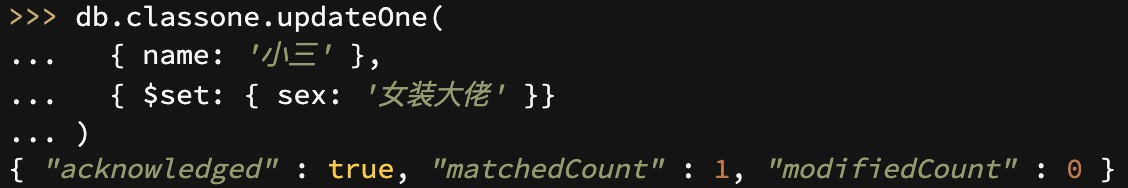
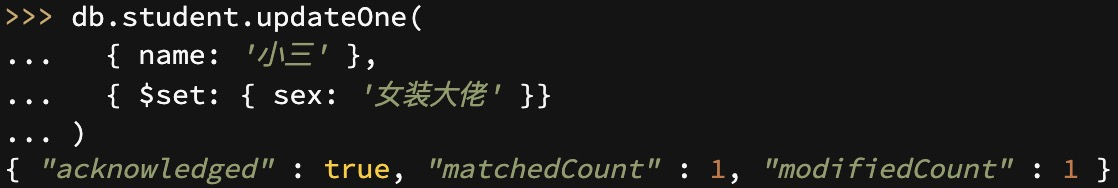
mongo done

diff --git a/mongo/README.md b/mongo/README.md
@@ -1,4 +1,4 @@
-# 前端mongo入学
+# mongo聚合笔记
 > `MongoDB` 是一个基于分布式文件存储的数据库。由 `C++` 语言编写。旨在为 `WEB` 应用提供可扩展的高性能数据存储解决方案。
 
 ## 1.前言
@@ -6,7 +6,7 @@
 
 我认为是非常有必要的，假如就笼统以浏览器和服务器区分前后端，如何解释浏览器的 `indexedDB` 的存在。存在就是合理的，了解越多可以走得越远。
 
-公司最近有 `mongo` 聚合的需求，没数据库方面实战的我瞬间有了极大的兴趣，这篇文章是 `mongo` 的笔记，但用层层递进的故事来写这篇文章，即使是前端小白也能理解和入门。
+公司最近有 `mongo` 聚合的需求，我瞬间有了极大的兴趣，这篇文章是 `mongo` 的学习和解决问题笔记。
 
 ## 2.环境
 环境安装与本篇文章的关系不大，但提供几个渠道：
@@ -14,7 +14,6 @@
 2. `mongo` 客户端，[Robo 3T](https://robomongo.org/)很好用哦；
 3. `mongo` 官方的[命令行小窗口](https://docs.mongodb.com/manual/tutorial/insert-documents/)（***免安装直接使用，学习推荐！！！***）。
 
-下面故事开始。
 ## 3.介绍
 在城市中有几所学校（`db`），我们来查看下城市中的学校都有哪些
 ![3-1](./3-1.jpg)
@@ -22,59 +21,231 @@
 然后需要指定学校，作用是可以操作该学校（`mongo`默认指向`test`）
 ![3-2](./3-2.jpg)
 
-## 4.添加
-学校（默认`test`）新开班级（`classone`），班级有三个学生（`student`）。他们的信息（姓名、性别、笔）如下：
-| 姓名 | 性别 | 铅笔数量 |
-|:---:|:---:|:---:|
-| 小一 | 男生 | 3 |
-| 小二 | 女生 | 4 |
-| 小三 | 男生 | 5 |
+## 4.插入
+学校（`test`）到了期末考试，成绩如下：
 
-老师要把他们的信息录入教务系统：
+| 姓名 | 性别 | 语文 | 数学 | 英语 |
+|:---:|:---:|:---:|:---:|:---:|
+| 小一 | 男生 | 90 | 90 | 90 |
+| 小二 | 女生 | 80 | 80 | 80 |
+| 小三 | 男生 | 70 | 70 | 70 |
+
+成绩出来后老师把分数录入成绩系统。
 ```javascript
-db.classone.insertOne({ name: "小一", sex: '男生', pencil: 3 })
+// 插入的方法：insertOne插入一条数据
+db.student.insertOne({ name: "小一", sex: '男生', chinese: '90', math: '90', english: '90', createdAt: new Date('2019-06-10')})
 ```
 ![4-1](./4-1.jpg)
 
 老师觉得一个个添加太烦了，所以一次性添加：
 ```javascript
-db.classone.insertMany([
-  { name: "小二", sex: '女生', pencil: 4 },
-  { name: "小三", sex: '女生', pencil: 5 },
+// // 插入的方法：insertMany 插入一条数据
+db.student.insertMany([
+  { name: "小三", sex: '女生', chinese: '80', math: '80', english: '80', createdAt: new Date('2019-06-10')},
+  { name: "小三", sex: '女生', chinese: '70', math: '70', english: '70', createdAt: new Date('2019-06-10')}
 ])
 ```
 ![4-2](./4-2.jpg)
 
 ## 5.修改
-老师把小三的性别记错了，他其实是女装大佬，老师被骗恼羞成怒，于是修正其性别
+老师突然发现，小三其实是女装大佬，老师被骗恼羞成怒，于是修改其性别。
 ```javascript
-db.classone.updateOne(
+// 更新方法：updateOne
+
+db.student.updateOne(
   { name: '小三' },
   { $set: { sex: '女装大佬' }}
 )
 ```
 ![5-1](./5-1.jpg)
 
-## 查找
-三个学生都努力学习，经过期末考试完后，小一自信可以拿第一，于是小一去查自己的成绩
+> 其中 `$set` 是更新操作符，告诉 `mongo` 需要对符合的数据进行什么操作。用法差不多，列举部分如下（更多[更新操作符](https://docs.mongodb.com/manual/reference/operator/update/)）：
+> 1. [$currentDate](https://docs.mongodb.com/manual/reference/operator/update/currentDate/#up._S_currentDate)：设置时间；
+> 2. [$inc](https://docs.mongodb.com/manual/reference/operator/update/inc/#up._S_inc)：按指定的数量增加字段的值；
+> 3. [$min](https://docs.mongodb.com/manual/reference/operator/update/currentDate/#up._S_currentDate)：仅当指定的值小于现有字段值时才更新字段；
+> 4. [$max](https://docs.mongodb.com/manual/reference/operator/update/currentDate/#up._S_currentDate)：仅当指定的值大于现有字段值时才更新字段；
+> 5. [$mul](https://docs.mongodb.com/manual/reference/operator/update/currentDate/#up._S_currentDate)：将字段的值乘以指定的量；
+> 6. [$rename](https://docs.mongodb.com/manual/reference/operator/update/currentDate/#up._S_currentDate)：重命名字段；
+> 7. [$set](https://docs.mongodb.com/manual/reference/operator/update/currentDate/#up._S_currentDate)：设置文档中字段的值；
+> 8. [$setOnInsert](https://docs.mongodb.com/manual/reference/operator/update/currentDate/#up._S_currentDate)：如果更新导致文档插入，则设置字段的值。对修改现有文档的更新操作没有影响；
+> 9. [$unset](https://docs.mongodb.com/manual/reference/operator/update/currentDate/#up._S_currentDate)：从文档中删除指定的字段。
+
+## 6.查找
+三个学生都努力学习，经过期末考试完后，小一自信可以拿第一，于是小一去查自己的成绩。
 ```javascript
-db.classone.find({name: '小一'})
+// 查询方法：find
+// pretty方法可以让数据更好看
+db.student.find({name: '小一'})
+```
+![6-1](./6-1.jpg)
+
+然后再查小二和小三的成绩。
+```javascript
+// 查询方法：find
+db.student.find({$or: [{name: '小二'}, {name: '小三'}]})
+```
+![6-2](./6-2.jpg)
+
+他突然发现小三是女装大佬的事实，震惊！
+
+> 其中 `$or` 是查询操作符，告诉 `mongo` 需要对符合的数据进行什么操作。用法差不多，列举部分如下（更多[查询操作符](https://docs.mongodb.com/manual/reference/operator/query/)）：
+> 1. [$eq](https://docs.mongodb.com/manual/reference/operator/query/eq/#op._S_eq)：匹配等于指定值的值。
+> 2. [$gt](https://docs.mongodb.com/manual/reference/operator/query/gt/#op._S_gt)：匹配大于指定值的值。
+> 3. [$lt](https://docs.mongodb.com/manual/reference/operator/query/lt/#op._S_lt)：匹配小于指定值的值。
+> 4. [$and](https://docs.mongodb.com/manual/reference/operator/query/lt/#op._S_lt)：列举条件都匹配。
+> 5. [$not](https://docs.mongodb.com/manual/reference/operator/query/lt/#op._S_lt)：列举条件都不匹配。
+> 6. [$or](https://docs.mongodb.com/manual/reference/operator/query/lt/#op._S_lt)：列举条件匹配其中一个。
+
+## 7.删除
+小一内心纠结，最后把这事告诉小三。小三觉得无颜面对同学和老师，决定退学。老师把小三的信息从教务系统删除。
+
+```javascript
+// 删除方法：deleteOne
+db.student.deleteOne({name: '小三'})
+```
+![7-1](./7-1.jpg)
+
+## 8.循环
+期末老师做工作总结，发现成绩录入成字符串，应该是数字类型才对，所以操作循环更改。
+
+```javascript
+// 遍历方法：forEach
+db.student.find().forEach(function(doc) {
+  doc.chinese = String(doc.chinese);
+  doc.math = String(doc.math);
+  doc.english = String(doc.english);
+  db.student.save(doc);
+});
 ```
 
-然后再查小二和小三的成绩
+![8-1](./8-1.jpg)
+
+> 数字类型：`NumberInt`强制转化为数字类型。
+
+## 9.聚合
+期末老师需要把班级的语文、数学、英语的平均分计算出来。
+
+### 9.1 aggregate
 ```javascript
-db.classone.find({$or: [{name: '小二'}, {name: '小三'}]})
+// 聚合方法：aggregate
+// 而$chinese、$math和$english只是代表文档字段。
+db.student.aggregate([
+  {
+    $group: {
+      _id: null,
+      sumChinese: { $sum: '$chinese' },
+      avgChinese: { $avg: '$chinese' },
+      sumMath: { $sum: '$math' },
+      avgMath: { $avg: '$math' },
+      sumEnglish: { $sum: '$english' },
+      avgEnglish: { $avg: '$english' },
+    }
+  }
+])
 ```
 
-他突然发现小三是女装大佬的事实
+![9-1](./9-1.jpg)
 
-## 删除
-小一内心纠结，最后把这事告诉小三。小三觉得无颜面对同学和老师，决定退学。老师把小三的信息从教务系统删除
+> `$group`是分组操作符，根据`_id`来进行分组，如果传`null`就是不分组，选择所有的数据。
+> 其中 `$sum` 和 `$avg` 是聚合操作符，告诉 `mongo` 需要对符合的数据进行什么操作。用法差不多，列举部分如下（更多[聚合操作符](https://docs.mongodb.com/manual/reference/operator/aggregation/)）：
+> 1. [$sum](https://docs.mongodb.com/v2.6/reference/operator/aggregation/sum/#grp._S_sum)：返回每个组的总和（忽略非数字值）；
+> 2. [$avg](https://docs.mongodb.com/v2.6/reference/operator/aggregation/avg/#grp._S_avg)：返回每个组的平均值（忽略非数字值）；
+> 3. [$max](https://docs.mongodb.com/v2.6/reference/operator/aggregation/max/#grp._S_max)：返回每个组的最高表达式值；
+> 4. [$min](https://docs.mongodb.com/v2.6/reference/operator/aggregation/min/#grp._S_min)：返回每个组的最低表达式值；
+> 5. [$gte](https://docs.mongodb.com/v2.6/reference/operator/aggregation/gte/#exp._S_gte)：如果给定的值大于等于，返回true，否则返回false；
+> 6. [$lte](https://docs.mongodb.com/v2.6/reference/operator/aggregation/lte/#exp._S_lte)：如果给定的值小于等于，返回true，否则返回false；
+> 7. [$add](https://docs.mongodb.com/v2.6/reference/operator/aggregation/add/#exp._S_add)：添加数字以返回总和，或添加数字和日期以返回新日期；
+> 8. [$year](https://docs.mongodb.com/v2.6/reference/operator/aggregation/year/#exp._S_year)：以数字（例如2014）返回日期的年份；
+> 9. [$month](https://docs.mongodb.com/v2.6/reference/operator/aggregation/month/#exp._S_month)：以1（1月）到12（12月）之间的数字返回日期的月份；
+> 10. [$dayOfMonth](https://docs.mongodb.com/v2.6/reference/operator/aggregation/dayOfMonth/#exp._S_dayOfMonth)：以1到31之间的数字返回日期的月中某天。
 
+老师发现上面的计算方式是计算所有的学生的成绩，而这次只需要计算这次期末考试成绩，修改如下：
 ```javascript
-db.classone.deleteOne({name: '小三'})
+db.student.aggregate([
+  {
+    $match: {
+      createdAt: {
+        $gte: new Date('2019-06-09T16:00:00+00:00'),
+        $lte: new Date('2019-06-10T16:00:00+00:00')
+      }
+    },
+  },
+  {
+    $project: {
+      name: 1,
+      sex: 1,
+      chinese: 1,
+      math: 1,
+      english: 1,
+      time: {$add: ['$createdAt', 8 * 60 * 60 * 1000]}
+    }
+  },
+  {
+    $group: {
+      _id: {
+        year: {'$year': '$time'},
+        month: {'$month': '$time'},
+        day: {'$dayOfMonth': '$time'},
+      },
+      sumChinese: { $sum: '$chinese' },
+      avgChinese: { $avg: '$chinese' },
+      sumMath: { $sum: '$math' },
+      avgMath: { $avg: '$math' },
+      sumEnglish: { $sum: '$english' },
+      avgEnglish: { $avg: '$english' },
+    }
+  }
+])
 ```
 
-## mapReduce
-## 聚合
-## 总结
+![9-2](./9-2.jpg)
+
+`time` 字段用来显示中国真实时间，它的值是 `createedAt` 的值再加8个小时。因为 `mongo` 默认存储世界标准时间，中国在东八区，需要加8个小时才能正确显示中国时间。
+> 1. `$match` ：筛选操作符，顾名思义只有满足条件的数据才继续传递下去；
+> 2. `$project` ：修改返回数据结构的操作符，1表示显示，不写或者0则不显示。（`aggregate` 聚合方法接受数组参数，因为有管道概念，简单说前面命令执行完的结果作为后面命令的参数，像`jquery`的点连接符。）
+
+### 9.2 MapReduce
+除了使用聚合方法，还可以使用 `MapReduce` 方法来计算。
+> `Map-Reduce` 是一种计算模型，简单的说就是将大批量的工作（数据）分解（MAP）执行，然后再将结果合并成最终结果（REDUCE）。MongoDB提供的Map-Reduce非常灵活，对于大规模数据分析也相当实用。
+
+```javascript
+db.student.mapReduce(
+  function(){
+    emit(null, this);
+  }, 
+  function(key, values){
+    var reducedVal = {
+      sumChinese: 0,
+      avgChinese: 0,
+      sumMath: 0,
+      avgMath: 0,
+      sumEnglish: 0,
+      avgEnglish: 0
+    };
+    
+    for (var i = 0; i < values.length; i++) {
+      reducedVal.sumChinese += values[i].chinese;
+      reducedVal.sumMath += values[i].math;
+      reducedVal.sumEnglish += values[i].english;
+    }
+    
+    reducedVal.avgChinese = reducedVal.sumChinese / values.length;
+    reducedVal.avgMath = reducedVal.sumMath / values.length;
+    reducedVal.avgEnglish = reducedVal.sumEnglish / values.length;
+    
+    return reducedVal;
+  }, 
+  {
+    query: {createdAt: {$gt: new Date('2019-06-09T16:00:00+00:00'), $lt: new Date('2019-06-10T16:00:00+00:00')}}, 
+    out: 'sum'
+  }
+).find();
+```
+![9-3](./9-3.jpg)
+上面 `mongo` 语句的意思是：
+1. 根据 `query` 筛选出合适的数据（相当于聚合 `aggregate` 的 `$match` ），交给 `map` 函数（`mapReduce`接受的第一个参数）；
+2. `map` 函数调用 `emit` 函数遍历所有筛选数据，传递的第一个参数表示分组，我们不需要分组就传递 `null`，第二个参数是对应的数据，我们把完整数据传递下去给给 `reduce` 函数（`mapReduce`接受的第二个参数）；
+3. `reduce` 函数接收 `map` 传递的 `key` 和 `values` 值（就是对应上面的 `emit(null, this)`），我们只需要按自己的需求遍历组装，返回组装好的数据就可以了。
+
+## 10.总结
+`mongo` 很好玩，本篇文章只是记录功能开发中运用 `mongo`的一些场景，而且 `mongo` 的内容远远不止本篇文章写的这么一点点范围，有兴趣可以查阅[官方文档](https://docs.mongodb.com/manual/tutorial/getting-started/)。
